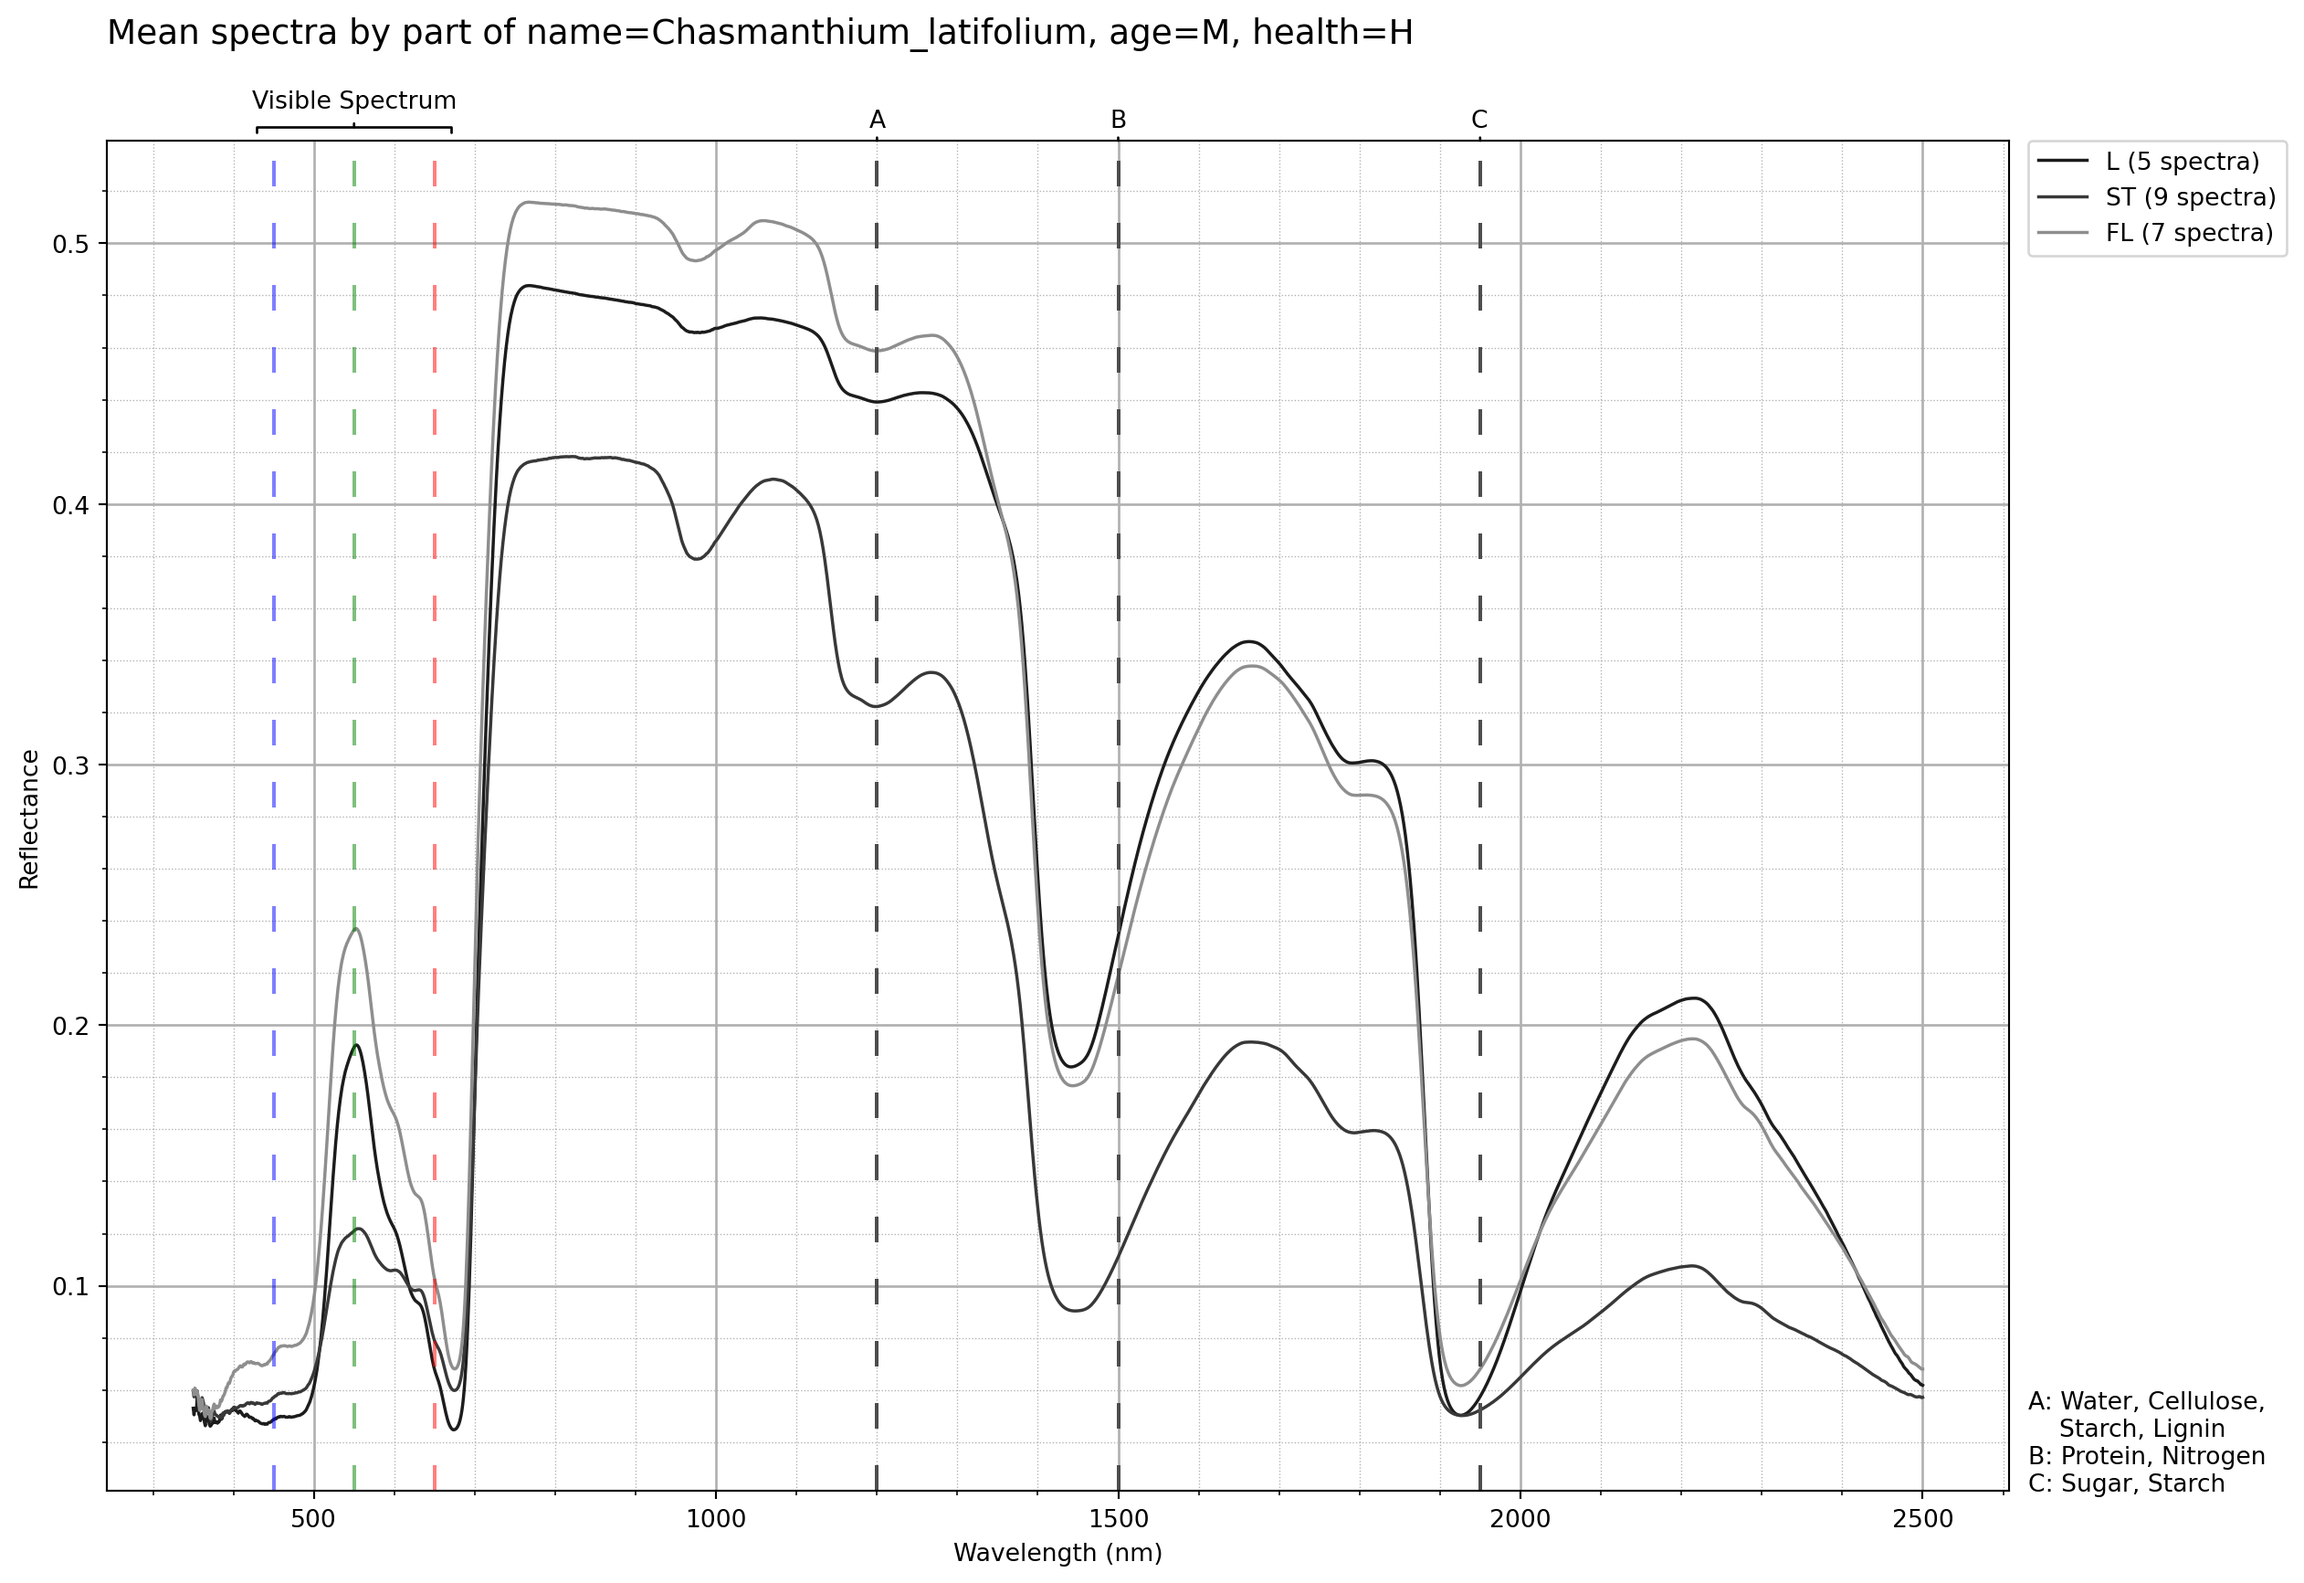
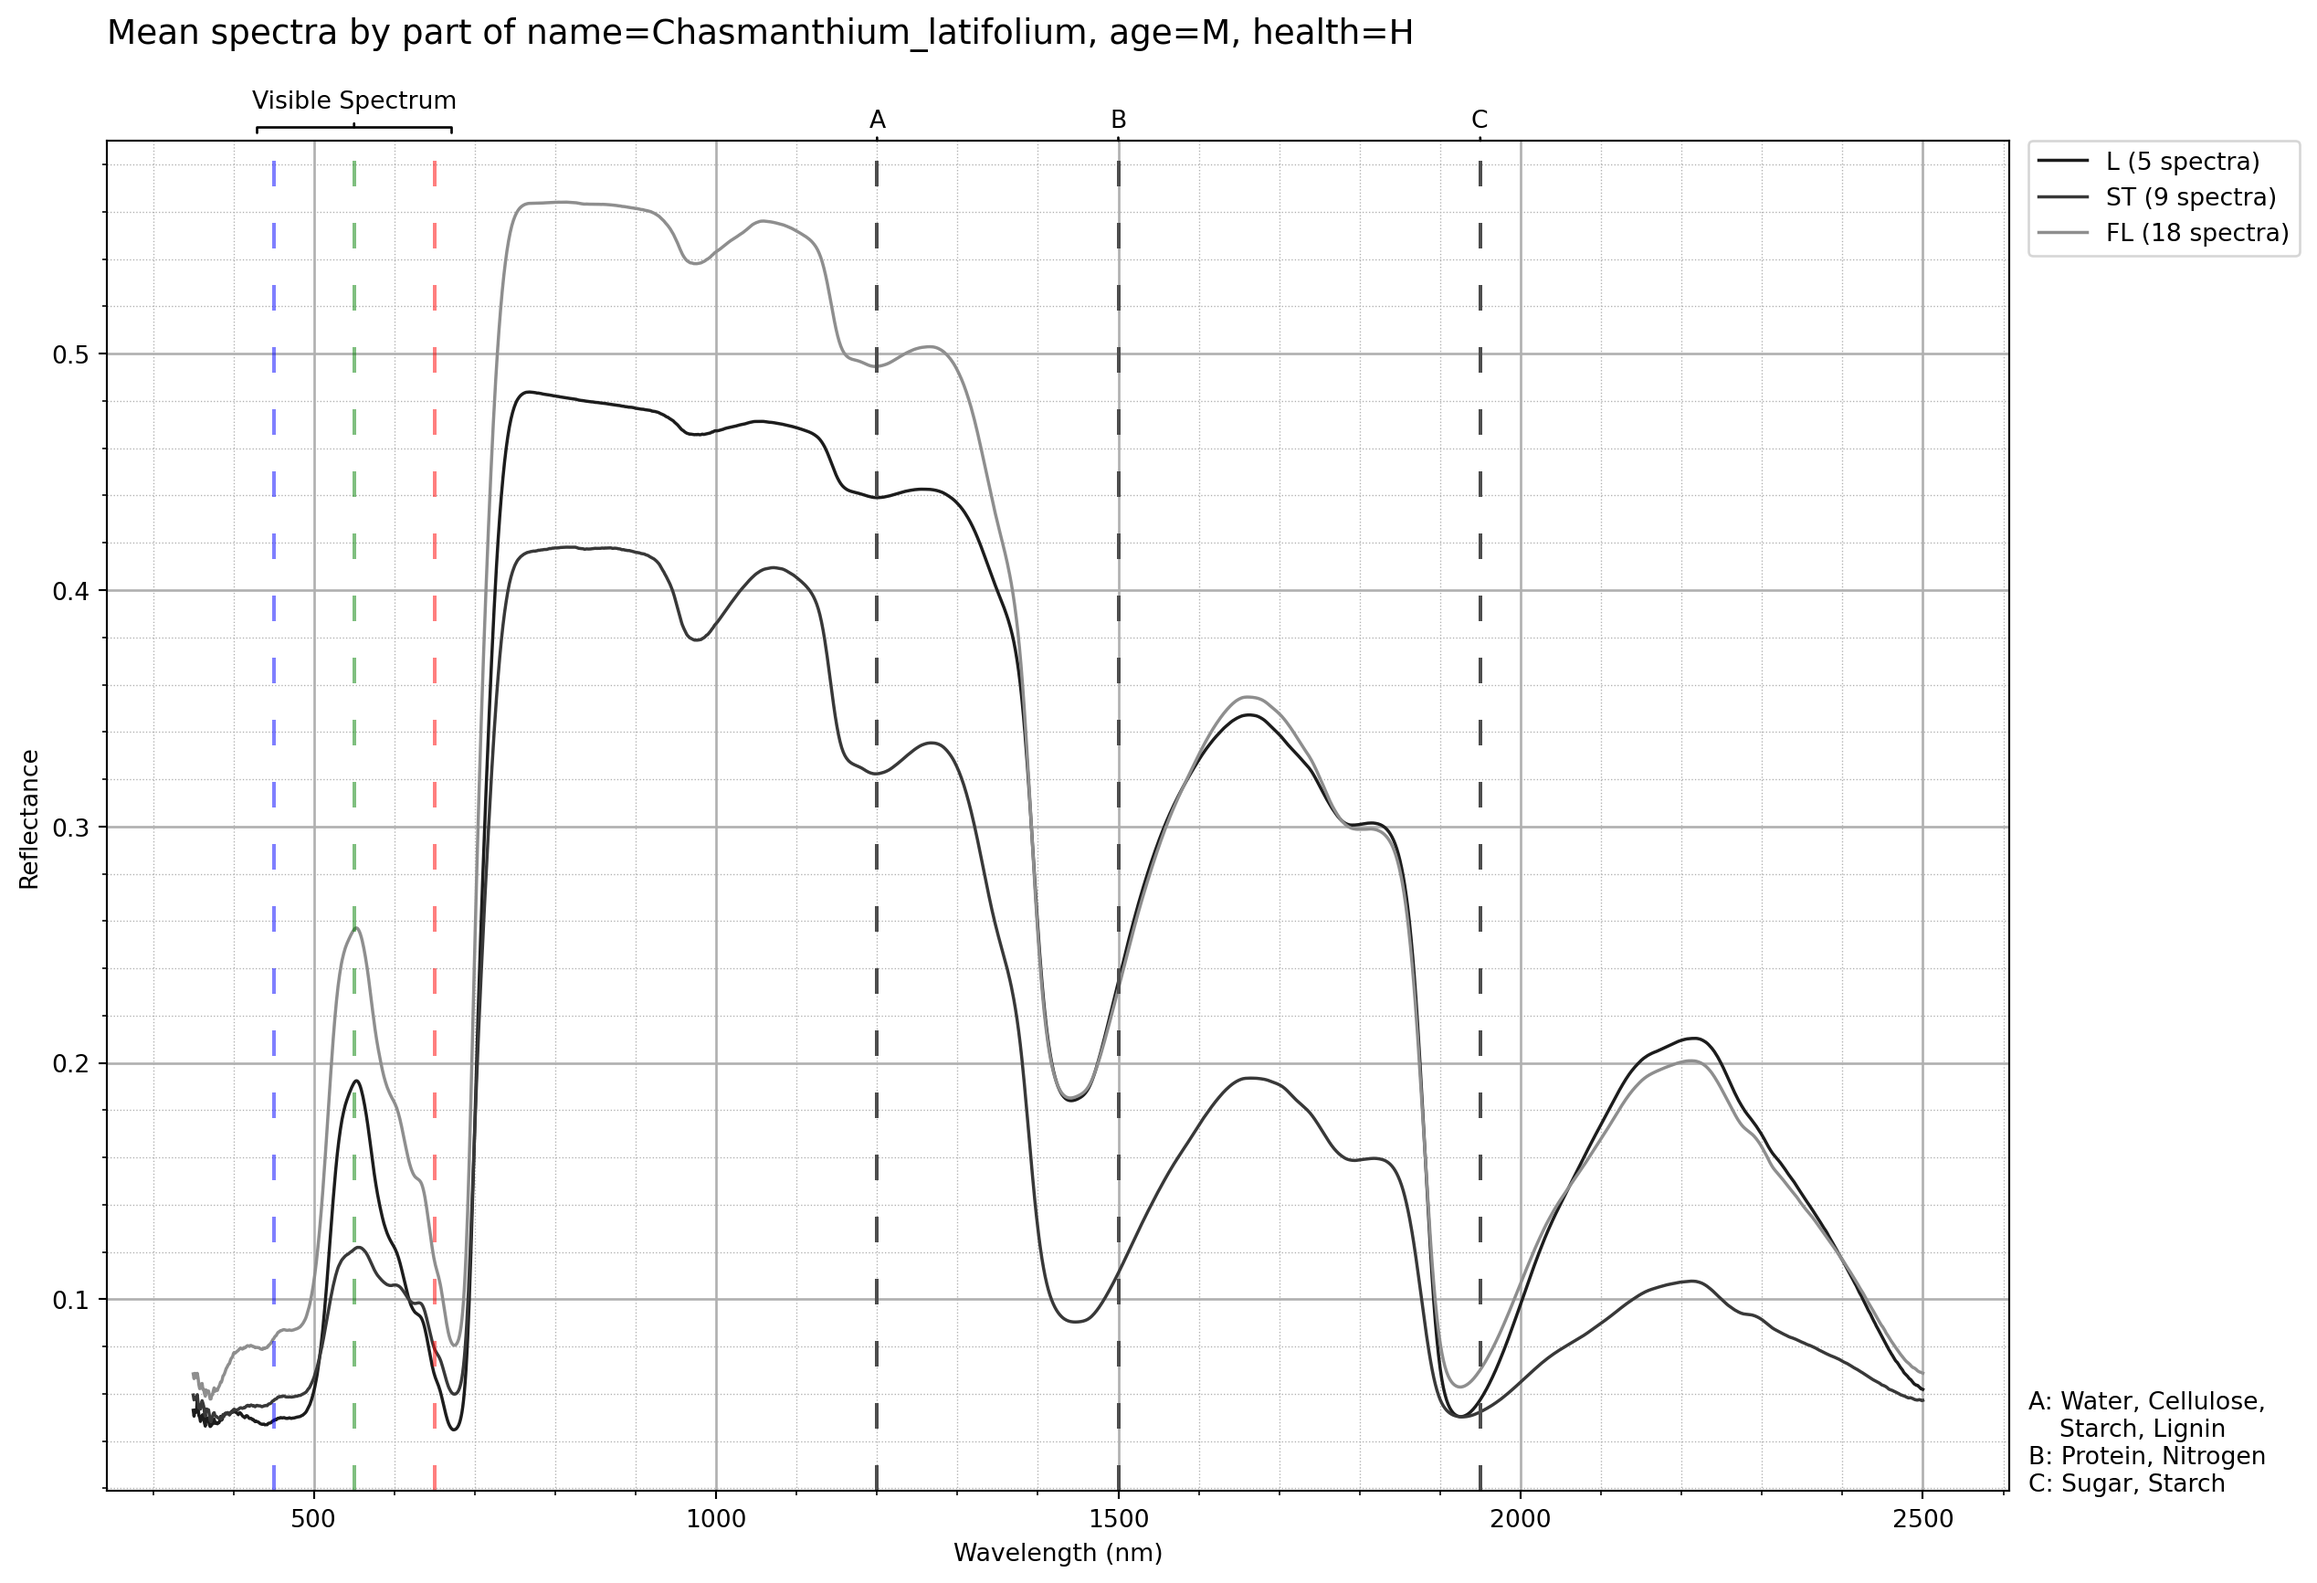
Built site for gh-pages

diff --git a/reports/Report1.html b/reports/Report1.html
@@ -152,7 +152,7 @@ ul.task-list li input[type="checkbox"] {
 
 <section id="spectral-library" class="level2 page-columns page-full">
 <h2 class="anchored" data-anchor-id="spectral-library">Spectral Library</h2>
-<p>Number of Spectra: 4791</p>
+<p>Number of Spectra: 4926</p>
 <div id="cell-table1" class="cell page-columns page-full" data-execution_count="9">
 <div id="table1" class="cell-output cell-output-display column-page-inset-right" data-execution_count="9">
 <div>
@@ -251,79 +251,79 @@ ul.task-list li input[type="checkbox"] {
 </tr>
 <tr class="odd">
 <td data-quarto-table-cell-role="th">Chamaecrista_fasciculata</td>
-<td>311</td>
+<td>349</td>
 <td>115</td>
 <td>88</td>
 <td>21</td>
 <td>9</td>
 <td>0</td>
 <td>73</td>
-<td>0</td>
+<td>38</td>
 <td>0</td>
 <td>50</td>
-<td>208</td>
+<td>246</td>
 <td>19</td>
 <td>22</td>
-<td>39</td>
-<td>197</td>
+<td>46</td>
+<td>212</td>
 <td>0</td>
 <td>0</td>
 <td>0</td>
 <td>0</td>
-<td>29</td>
+<td>45</td>
 <td>24</td>
 <td>0</td>
 <td>4</td>
 <td>212</td>
-<td>7</td>
+<td>45</td>
 <td>0</td>
 </tr>
 <tr class="even">
 <td data-quarto-table-cell-role="th">Chasmanthium_latifolium</td>
-<td>489</td>
+<td>524</td>
 <td>108</td>
 <td>204</td>
 <td>70</td>
 <td>0</td>
 <td>0</td>
-<td>56</td>
+<td>91</td>
 <td>6</td>
 <td>31</td>
 <td>32</td>
 <td>160</td>
 <td>222</td>
-<td>43</td>
-<td>30</td>
-<td>398</td>
+<td>78</td>
+<td>41</td>
+<td>409</td>
 <td>0</td>
 <td>0</td>
 <td>0</td>
 <td>0</td>
 <td>35</td>
-<td>0</td>
+<td>13</td>
 <td>11</td>
 <td>11</td>
-<td>122</td>
+<td>157</td>
 <td>31</td>
 <td>35</td>
 </tr>
 <tr class="odd">
 <td data-quarto-table-cell-role="th">Ilex_vomitoria</td>
-<td>472</td>
+<td>481</td>
 <td>109</td>
 <td>132</td>
 <td>60</td>
 <td>26</td>
 <td>124</td>
-<td>21</td>
+<td>30</td>
 <td>0</td>
 <td>0</td>
 <td>6</td>
 <td>0</td>
-<td>414</td>
-<td>7</td>
-<td>7</td>
 <td>423</td>
+<td>7</td>
+<td>7</td>
+<td>432</td>
 <td>0</td>
 <td>0</td>
 <td>0</td>
@@ -332,16 +332,16 @@ ul.task-list li input[type="checkbox"] {
 <td>0</td>
 <td>0</td>
 <td>3</td>
-<td>131</td>
+<td>140</td>
 <td>0</td>
 <td>0</td>
 </tr>
 <tr class="even">
 <td data-quarto-table-cell-role="th">Iva_frutescens</td>
-<td>355</td>
+<td>397</td>
 <td>14</td>
 <td>297</td>
-<td>8</td>
+<td>50</td>
 <td>9</td>
 <td>24</td>
 <td>0</td>
@@ -349,16 +349,16 @@ ul.task-list li input[type="checkbox"] {
 <td>0</td>
 <td>0</td>
 <td>5</td>
-<td>65</td>
+<td>107</td>
 <td>193</td>
-<td>46</td>
-<td>163</td>
+<td>57</td>
+<td>173</td>
 <td>18</td>
 <td>0</td>
 <td>0</td>
 <td>0</td>
-<td>61</td>
-<td>58</td>
+<td>71</td>
+<td>69</td>
 <td>14</td>
 <td>106</td>
 <td>15</td>
@@ -367,8 +367,8 @@ ul.task-list li input[type="checkbox"] {
 </tr>
 <tr class="odd">
 <td data-quarto-table-cell-role="th">Morella_pennsylvanica</td>
-<td>328</td>
-<td>21</td>
+<td>339</td>
+<td>32</td>
 <td>233</td>
 <td>0</td>
 <td>13</td>
@@ -379,9 +379,9 @@ ul.task-list li input[type="checkbox"] {
 <td>0</td>
 <td>5</td>
 <td>25</td>
-<td>298</td>
+<td>309</td>
 <td>74</td>
-<td>149</td>
+<td>160</td>
 <td>0</td>
 <td>0</td>
 <td>0</td>
@@ -675,7 +675,7 @@ ul.task-list li input[type="checkbox"] {
 <div class="cell-output cell-output-display page-columns page-full">
 <div class="page-columns page-full">
 <figure class="figure page-columns page-full">
-<p class="page-columns page-full"><img src="Report1_files/figure-html/cell-18-output-1.png" width="1262" height="867" class="figure-img column-page"></p>
+<p class="page-columns page-full"><img src="Report1_files/figure-html/cell-18-output-1.png" width="1269" height="867" class="figure-img column-page"></p>
 </figure>
 </div>
 </div>
